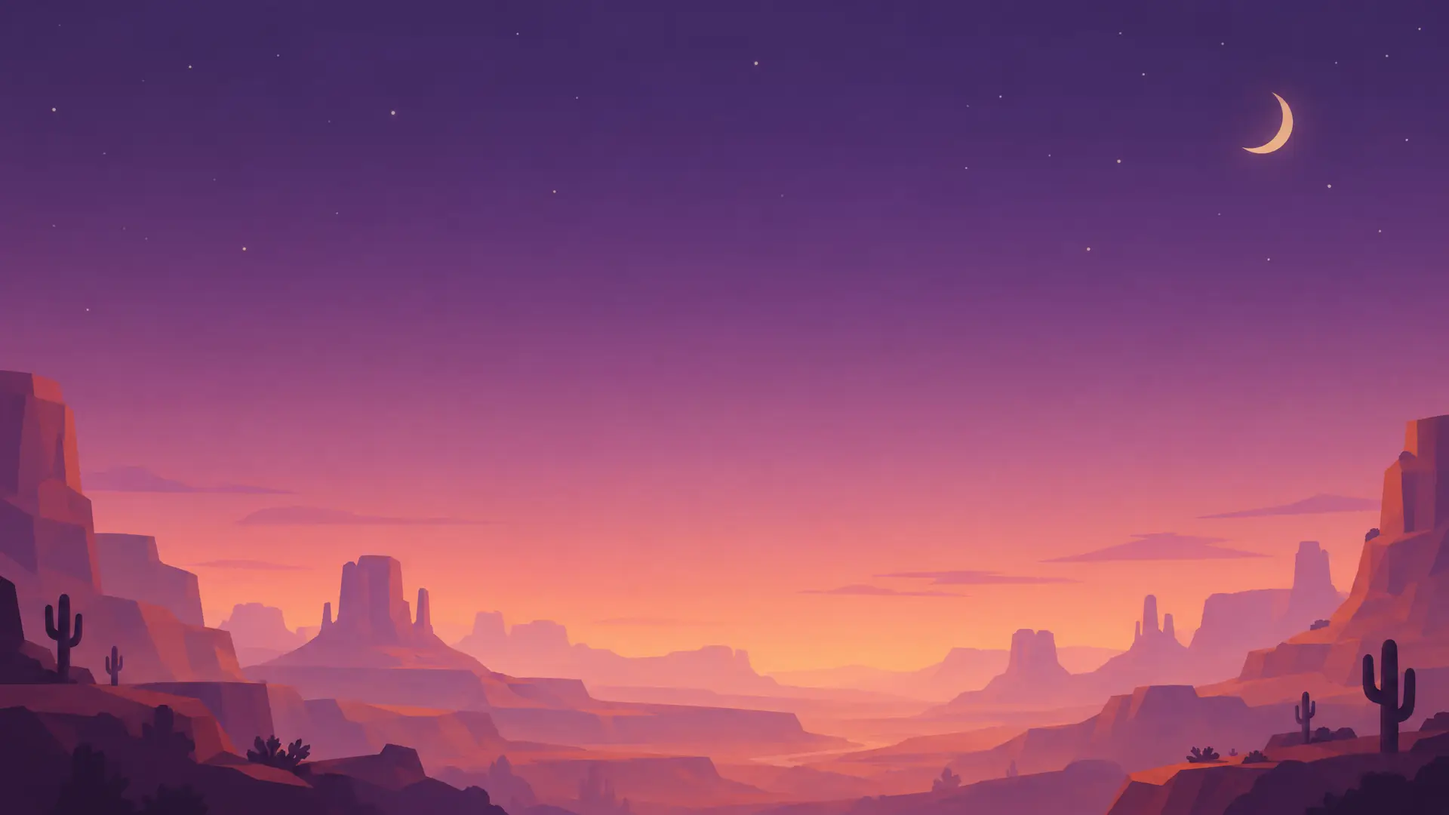
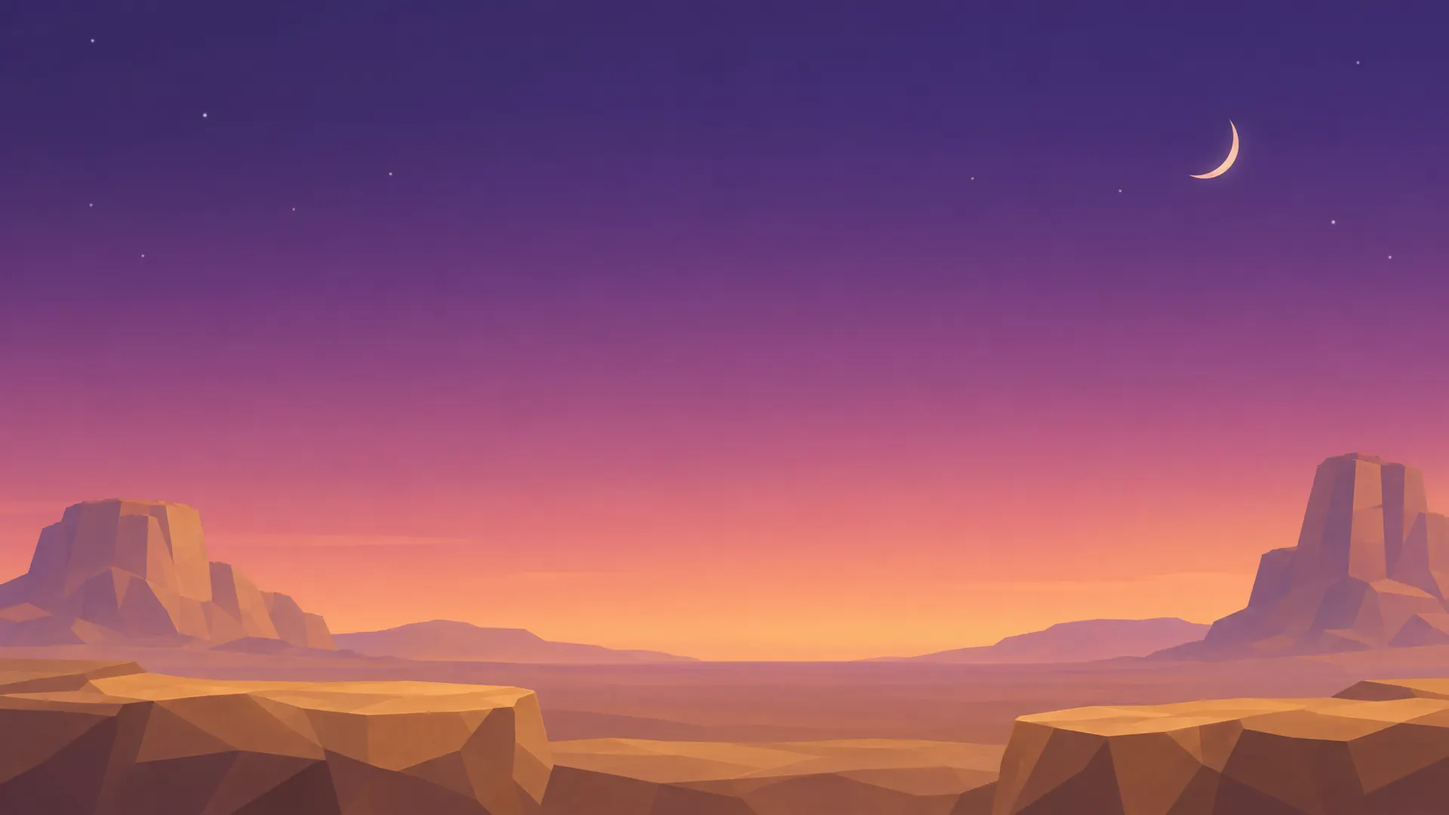
Calmer backdrops from the platforms' own sandstone world, twinkling stars, and guns held by the handle
Seven new Higgsfield backdrops (mesas, floating islands, arches, spires, ember ridges, sea cliffs, mirror lake)
with no buildings or machines, drawn slightly soft. Stars twinkle and fade as dawn comes. The fist closes on
each gun's handle and the free hand holds a long gun's front.

Changed region(s): [[0.0, 0.4583, 1.0, 1.0], [0.8438, 0.1222, 0.9062, 0.2139]]

diff --git a/index.html b/index.html
@@ -1929,28 +1929,35 @@ function facets(g,x,y,w,h,kind){const [base,hi,lo]=KIND[kind||0];g.save();g.fill
 function matchProgress(){if(game.bg||!game.target||game.target>=99)return 0;
   const lead=Math.max(game.wins[0]+game.points[0]/2,game.wins[1]+game.points[1]/2);return clamp(lead/(game.target-.5),0,1)}
 function mixHex(a,b,t){const pa=parseInt(a.slice(1),16),pb=parseInt(b.slice(1),16),m=sh=>Math.round(((pa>>sh)&255)+(((pb>>sh)&255)-((pa>>sh)&255))*t);return`rgb(${m(16)},${m(8)},${m(0)})`}
-/* painted backdrops (made with Higgsfield, one per arena theme): distant scenery only, so the platforms stay the brightest
+/* painted backdrops (made with Higgsfield, one per arena theme): the rest of the platforms' sandstone world, kept calm and distant, so the platforms stay the brightest
    thing on screen. Drawn cover-fit under a light veil; the match's night-to-dawn glow goes on top. Until one has loaded (or
    if it fails), the arena keeps its drawn dusk sky */
 const BACKDROP={Yard:'canyon',Pit:'canyon',Stairs:'canyon',Quarry:'canyon',Canyon:'canyon',Mesa:'canyon',Dunes:'canyon',Cutline:'canyon',
   Archipelago:'islands',Islands:'islands',Ferry:'islands',Springs:'islands',Bridge:'islands',Elevator:'islands',
   Ruins:'ruins',Crossroads:'ruins',Towers:'ruins',Spire:'ruins',Hourglass:'ruins',Plaza:'ruins',
-  Fortress:'fortress',Drawbridge:'fortress',Bunkers:'fortress',Divider:'fortress',Gallows:'fortress',
-  Foundry:'foundry',Gearworks:'foundry',Piston:'foundry',Chimney:'foundry',Pulley:'foundry','Wrecking Yard':'foundry',Scaffold:'foundry',
-  Skyline:'skyline',Catwalk:'skyline',Shelves:'skyline',Topple:'skyline',
-  Lanterns:'lanterns',Chimes:'lanterns',Chandelier:'lanterns',Swingset:'lanterns',Ropeyard:'lanterns'};
+  Fortress:'spires',Drawbridge:'spires',Bunkers:'spires',Divider:'spires',Gallows:'spires',
+  Foundry:'ember',Gearworks:'ember',Piston:'ember',Chimney:'ember',Pulley:'ember','Wrecking Yard':'ember',Scaffold:'ember',
+  Skyline:'coast',Catwalk:'coast',Shelves:'coast',Topple:'coast',
+  Lanterns:'lake',Chimes:'lake',Chandelier:'lake',Swingset:'lake',Ropeyard:'lake'};
 const bdImgs={};
 const backdropOf=map=>BACKDROP[map.label||map.name]||'canyon';
 function backdropImg(id){let im=bdImgs[id];if(im)return im;if(typeof Image==='undefined')return null;im=bdImgs[id]=new Image();im.decoding='async';
   im.onload=()=>{if(game.map&&backdropOf(game.map)===id)paintSky(game.map,matchProgress())};im.src='bg/'+id+'.webp';return im}
 function warmBackdrops(){for(const id of new Set(Object.values(BACKDROP)))backdropImg(id)}
 function drawBackdrop(g,map,dawn){const im=backdropImg(backdropOf(map));if(!im||!im.complete||!im.naturalWidth)return false;
-  const k=Math.max(W/im.naturalWidth,H/im.naturalHeight),dw=im.naturalWidth*k,dh=im.naturalHeight*k;g.drawImage(im,(W-dw)/2,H-dh,dw,dh);   // anchored to the bottom: the scenery sits on the horizon
+  const k=Math.max(W/im.naturalWidth,H/im.naturalHeight),dw=im.naturalWidth*k,dh=im.naturalHeight*k;g.save();g.filter='blur(2px) saturate(.85)';g.drawImage(im,(W-dw)/2,H-dh,dw,dh);g.restore();   // anchored to the bottom: the scenery sits on the horizon; a touch soft, so distant rock never reads as a platform
   g.fillStyle='rgba(16,8,30,.24)';g.fillRect(0,0,W,H);
   const vg=g.createLinearGradient(0,H*.55,0,H);vg.addColorStop(0,'rgba(16,8,30,0)');vg.addColorStop(1,'rgba(16,8,30,.38)');g.fillStyle=vg;g.fillRect(0,H*.55,W,H*.45);
   if(dawn>.05){const dg=g.createLinearGradient(0,0,0,H);dg.addColorStop(0,`rgba(90,120,200,${.22*dawn})`);dg.addColorStop(.6,`rgba(255,150,120,${.18*dawn})`);dg.addColorStop(1,`rgba(255,190,120,${.3*dawn})`);
     g.save();g.globalCompositeOperation='lighter';g.fillStyle=dg;g.fillRect(0,0,W,H);g.restore()}
   return true}
+/* the sky moves a little: stars twinkle, fading as dawn comes (the dust motes drift on their own layer). Drawn each frame behind the platforms,
+   from fixed per-arena positions, never simulated; off with reduced motion */
+let amb=null;
+function ambientFor(map){const R=artRng(strSeed('amb'+(map.label||map.name)));return{stars:Array.from({length:26},()=>({x:R()*W,y:R()*H*.45,r:.8+R()*1.4,ph:R()*TAU,sp:.6+R()*1.6}))}}
+function drawAmbient(){if(RM||!game.map)return;if(!amb||amb.map!==game.map){amb=ambientFor(game.map);amb.map=game.map}const t=performance.now()/1000,night=1-matchProgress()*.85;
+  ctx.save();ctx.fillStyle='#fff4ec';for(const s of amb.stars){const a=night*(.25+.45*(.5+.5*Math.sin(t*s.sp+s.ph)));if(a<.03)continue;ctx.globalAlpha=a;ctx.beginPath();ctx.arc(s.x,s.y,s.r,0,TAU);ctx.fill()}
+  ctx.restore()}
 function paintSky(map,dawn){const g=bgx;
   if(!drawBackdrop(g,map,dawn)){const gr=g.createLinearGradient(0,0,0,H);
   gr.addColorStop(0,mixHex('#1a1029','#34477f',dawn));gr.addColorStop(.55,mixHex('#35204a','#a8577a',dawn));gr.addColorStop(1,mixHex('#5b3352','#ffa765',dawn));g.fillStyle=gr;g.fillRect(0,0,W,H);
@@ -4358,8 +4365,9 @@ function gunAccent(p){const s=p.s;return s.poison?C.poison:s.slow>0?'#bfe9ff':s.
 /* painted guns (made with Higgsfield, in guns/): the build decides which one you hold, the same way it picks the shot sound,
    so a draft that changes your gun type shows it in your hand. gx/gy: where the hand holds it, as a share of the picture;
    w: its width in the arena. Until a picture loads (or if it fails) the drawn gun below stands in */
-const GUNS={sidearm:{n:'Sidearm',w:46,gx:.115,gy:.356},rail:{n:'Rail Rifle',w:80,gx:.22,gy:.49},scatter:{n:'Scattergun',w:62,gx:.133,gy:.37},
-  lob:{n:'Lobber',w:60,gx:.145,gy:.39},heavy:{n:'Hand Cannon',w:60,gx:.146,gy:.305},smg:{n:'SMG',w:52,gx:.12,gy:.283}};
+// hx/hy: the handle, where the fist closes (the gun hangs from it); gy: the barrel's line; sx/sy: where a two-handed gun's free hand holds it
+const GUNS={sidearm:{n:'Sidearm',w:46,hx:.128,hy:.62,gy:.356},rail:{n:'Rail Rifle',w:80,hx:.23,hy:.72,gy:.49,sx:.53,sy:.56},scatter:{n:'Scattergun',w:62,hx:.112,hy:.67,gy:.37,sx:.59,sy:.67},
+  lob:{n:'Lobber',w:60,hx:.123,hy:.65,gy:.39,sx:.5,sy:.74},heavy:{n:'Hand Cannon',w:60,hx:.126,hy:.59,gy:.305},smg:{n:'SMG',w:52,hx:.108,hy:.58,gy:.283}};
 const gunKind=s=>s.bulletSpeed>2000?'rail':s.projectiles>2?'scatter':s.bulletGravity>1.3||s.explode>=85?'lob':s.dmg>=80?'heavy':s.fireDelay<.18?'smg':'sidearm';
 const gunImgs={};
 function gunImg(k){let im=gunImgs[k];if(im)return im;if(typeof Image==='undefined')return null;im=gunImgs[k]=new Image();im.decoding='async';im.src='guns/'+k+'.webp';return im}
@@ -4367,11 +4375,13 @@ function warmGuns(){for(const k in GUNS)gunImg(k)}
 function drawGun(p){const k=gunKind(p.s),G=GUNS[k],im=gunImg(k);
   if(p._gk&&p._gk!==k&&p.alive)parts.push({text:G.n.toUpperCase()+'!',x:p.x,y:p.y-p.r-40,vx:0,vy:-50,grav:0,life:1.4,max:1.4,color:'#fff3c4'});   // your gun just changed type
   p._gk=k;
-  if(!im||!im.complete||!im.naturalWidth){drawBoxGun(p);return}
-  const w=G.w*(1+Math.min(.3,Math.max(0,(p.s.bulletSize-1)*.3))),h=w*im.naturalHeight/im.naturalWidth,len=(1-G.gx)*w,th=h*.5;ctx.drawImage(im,-G.gx*w,-G.gy*h,w,h);
-  const ac=gunAccent(p);if(ac!==p.glow){ctx.save();ctx.globalCompositeOperation='lighter';ctx.globalAlpha=.55;ctx.fillStyle=ac;ctx.beginPath();ctx.arc(len-2,0,th*.35,0,TAU);ctx.fill();ctx.restore()}   // poison, frost, blast or homing rounds tint the muzzle
-  muzzleFlash(p,len,th)}
-function muzzleFlash(p,len,th){if(p.shotT>0&&!RM){const k=clamp(p.shotT/.08,0,1),L=(16+th)*(.6+.6*k),S=th*.9*(.6+.4*k),sp=performance.now()/30;ctx.save();ctx.globalCompositeOperation='lighter';ctx.translate(len+2,0);   // muzzle flash
+  const g=gunGeom(p);if(!g){drawBoxGun(p);return}
+  const{w,h}=g,len=(1-G.hx)*w,by=(G.gy-G.hy)*h,th=h*.5;ctx.drawImage(im,-G.hx*w,-G.hy*h,w,h);
+  const ac=gunAccent(p);if(ac!==p.glow){ctx.save();ctx.globalCompositeOperation='lighter';ctx.globalAlpha=.55;ctx.fillStyle=ac;ctx.beginPath();ctx.arc(len-2,by,th*.35,0,TAU);ctx.fill();ctx.restore()}   // poison, frost, blast or homing rounds tint the muzzle
+  muzzleFlash(p,len,th,by)}
+// the painted gun's size for this build, or null while its picture loads
+function gunGeom(p){const k=gunKind(p.s),G=GUNS[k],im=gunImg(k);if(!im||!im.complete||!im.naturalWidth)return null;const w=G.w*(1+Math.min(.3,Math.max(0,(p.s.bulletSize-1)*.3)));return{G,w,h:w*im.naturalHeight/im.naturalWidth}}
+function muzzleFlash(p,len,th,by=0){if(p.shotT>0&&!RM){const k=clamp(p.shotT/.08,0,1),L=(16+th)*(.6+.6*k),S=th*.9*(.6+.4*k),sp=performance.now()/30;ctx.save();ctx.globalCompositeOperation='lighter';ctx.translate(len+2,by);   // muzzle flash
     for(const[col,m]of[[p.glow,1],['#fff4d6',.55]]){ctx.globalAlpha=.9*k;ctx.fillStyle=col;ctx.beginPath();
       for(let i=0;i<10;i++){const a=i*TAU/10+Math.sin(sp+i)*.08,r=(i%2?S*.45:i===0?L*1.25:L*.6)*m;ctx.lineTo(Math.cos(a)*r,Math.sin(a)*r*(i===0?1:.75))}ctx.closePath();ctx.fill()}   // five points, the forward one longest
     ctx.restore()}}
@@ -4449,15 +4459,17 @@ function drawPlayer(p){if(!p.alive)return;const R=p.r,ax=Math.cos(p.aim),ay=Math
   ctx.translate(0,bob);   // the body (and its arms) rides the step
   // off hand with the block orb (white = block ready)
   const ready=p.blockCd<=0,oh=p.blockT>0?[ax*(R+12),ay*(R+12)]:[-face*(R+12)-clamp((p.vx||0)*.014,-12,12)-dirW*Math.sin(wph)*R*.3*amt,R*.25+Math.cos(wph*2)*1.5*amt-clamp((p.vy||0)*.012,-12,12)];   // the free hand trails behind the motion and swings against the stride
-  noodle(-face*R*.6,R*.1,oh[0],oh[1],8,lw*.9,sk.lo);
-  ctx.globalAlpha=ready?1:.35;ctx.fillStyle='#ffffff';ctx.beginPath();ctx.arc(oh[0],oh[1],R*.3,0,TAU);ctx.fill();ctx.globalAlpha=1;
-  if(!ready){ctx.strokeStyle='#ffffff';ctx.lineWidth=2;ctx.beginPath();ctx.arc(oh[0],oh[1],R*.3+3,-Math.PI/2,-Math.PI/2+TAU*(1-p.blockCd/p.s.blockCd));ctx.stroke()}
+  const offHand=()=>{noodle(-face*R*.6,R*.1,oh[0],oh[1],8,lw*.9,sk.lo);
+    ctx.globalAlpha=ready?1:.35;ctx.fillStyle='#ffffff';ctx.beginPath();ctx.arc(oh[0],oh[1],R*.3,0,TAU);ctx.fill();ctx.globalAlpha=1;
+    if(!ready){ctx.strokeStyle='#ffffff';ctx.lineWidth=2;ctx.beginPath();ctx.arc(oh[0],oh[1],R*.3+3,-Math.PI/2,-Math.PI/2+TAU*(1-p.blockCd/p.s.blockCd));ctx.stroke()}};
   // gun arm
-  const recoil=p.shotT>0?-6:0,hx=ax*(R+14+recoil),hy=ay*(R+14+recoil);
+  const recoil=p.shotT>0?-6:0,hx=ax*(R+14+recoil),hy=ay*(R+14+recoil),gg=gunGeom(p),two=gg&&gg.G.sx!=null&&!(p.blockT>0);
+  if(!two)offHand();
   noodle(face*R*.5,R*.05,hx,hy,10,lw,p.color);
   ctx.save();ctx.translate(hx,hy);ctx.rotate(p.aim);if(face<0)ctx.scale(1,-1);drawGun(p);   // grip always hangs down
   if(p.staticReady){ctx.fillStyle=C.hot;ctx.fillRect(14,-5,6,10)}ctx.restore();
   ctx.fillStyle=p.color;ctx.beginPath();ctx.arc(hx,hy,lw*.62,0,TAU);ctx.fill();   // the fist wraps the grip
+  if(two){const{G,w,h}=gg,u=(G.sx-G.hx)*w,v=(G.sy-G.hy)*h*(face<0?-1:1),c=Math.cos(p.aim),sn=Math.sin(p.aim);oh[0]=hx+c*u-sn*v;oh[1]=hy+sn*u+c*v;offHand()}   // a long gun: the free hand (still the block orb) holds its front
   // body
   // body: squash and stretch from the jelly springs, a lean from the feet, and flattened against a wall it clings to
   const ja=p.ja||0,jw=p.jw||0,sy=p.squash*(1+ja),sx=(1/Math.sqrt(p.squash))*(1-ja*.7)*(1-.2*jw);
@@ -4605,7 +4617,7 @@ function renderNow(){ctx.setTransform(1,0,0,1,0,0);ctx.fillStyle='#0c0713';ctx.f
   if(W>VW||H>VH){const E=4000;const q=LQ;ctx.drawImage(bgC,0,0,W*q,2*q,-E,-E,W+2*E,E);ctx.drawImage(bgC,0,(H-2)*q,W*q,2*q,-E,H,W+2*E,E);ctx.drawImage(bgC,0,0,2*q,H*q,-E,0,E,H);ctx.drawImage(bgC,(W-2)*q,0,2*q,H*q,W,0,E,H);
     ctx.fillStyle='rgba(8,4,14,.4)';ctx.fillRect(-E,-E,W+2*E,E);ctx.fillRect(-E,H,W+2*E,E);ctx.fillRect(-E,0,E,H);ctx.fillRect(W,0,E,H)}
   ctx.save();ctx.beginPath();ctx.rect(0,0,W,H);ctx.clip();
-  ctx.drawImage(bgC,0,0,W,H);
+  ctx.drawImage(bgC,0,0,W,H);drawAmbient();
   for(const m of motes){ctx.globalAlpha=m.a;ctx.fillStyle='#ffd9c4';ctx.fillRect(m.x,m.y,m.s,m.s)}ctx.globalAlpha=1;
   ctx.save();ctx.translate(0,game.dropOff);ctx.drawImage(platC,0,0,W,H);ctx.drawImage(decC,0,0,W,H);
   for(const s of swings){if(!s.mover){if(s.ay>0){chain(s.ax,0,s.ax,s.ay);ctx.fillStyle='#8f88a6';ctx.beginPath();ctx.arc(s.ax,s.ay,6,0,TAU);ctx.fill()}chain(s.ax,s.ay||0,s.x+s.w/2,s.y)}
@@ -4835,7 +4847,7 @@ function frame(now){const dt=Math.min(.25,(now-last)/1000);last=now;if(ctl.on){p
 
 /* ---------- online: peer-to-peer via PeerJS. The host's browser runs the match for both players;
    the guest sends its inputs and draws the host's snapshots. A free public broker only introduces the two browsers. ---------- */
-const BUILD='2026-11-10-painted-guns';   // both players must run the same build: arena lists and rules have to match
+const BUILD='2026-11-10-calm-world';   // both players must run the same build: arena lists and rules have to match
 const ROOM_ALPHA='ABCDEFGHJKLMNPQRSTUVWXYZ23456789',ROOM_PREFIX='cuued-v1-';
 const net={role:null,peer:null,conn:null,connected:false,code:'',remoteName:'',remote:null,snap:null,snapAt:0,bmap:new Map(),
   out:{jc:0,bc:0,sc:0},sendT:0,pingT:0,rtt:0,fx:[],joinTimer:0,seq:0,ice:null,relay:false,iceAt:0,iceTried:false,icePromise:null,

diff --git a/src/counterpick.html b/src/counterpick.html
@@ -1922,28 +1922,35 @@ function facets(g,x,y,w,h,kind){const [base,hi,lo]=KIND[kind||0];g.save();g.fill
 function matchProgress(){if(game.bg||!game.target||game.target>=99)return 0;
   const lead=Math.max(game.wins[0]+game.points[0]/2,game.wins[1]+game.points[1]/2);return clamp(lead/(game.target-.5),0,1)}
 function mixHex(a,b,t){const pa=parseInt(a.slice(1),16),pb=parseInt(b.slice(1),16),m=sh=>Math.round(((pa>>sh)&255)+(((pb>>sh)&255)-((pa>>sh)&255))*t);return`rgb(${m(16)},${m(8)},${m(0)})`}
-/* painted backdrops (made with Higgsfield, one per arena theme): distant scenery only, so the platforms stay the brightest
+/* painted backdrops (made with Higgsfield, one per arena theme): the rest of the platforms' sandstone world, kept calm and distant, so the platforms stay the brightest
    thing on screen. Drawn cover-fit under a light veil; the match's night-to-dawn glow goes on top. Until one has loaded (or
    if it fails), the arena keeps its drawn dusk sky */
 const BACKDROP={Yard:'canyon',Pit:'canyon',Stairs:'canyon',Quarry:'canyon',Canyon:'canyon',Mesa:'canyon',Dunes:'canyon',Cutline:'canyon',
   Archipelago:'islands',Islands:'islands',Ferry:'islands',Springs:'islands',Bridge:'islands',Elevator:'islands',
   Ruins:'ruins',Crossroads:'ruins',Towers:'ruins',Spire:'ruins',Hourglass:'ruins',Plaza:'ruins',
-  Fortress:'fortress',Drawbridge:'fortress',Bunkers:'fortress',Divider:'fortress',Gallows:'fortress',
-  Foundry:'foundry',Gearworks:'foundry',Piston:'foundry',Chimney:'foundry',Pulley:'foundry','Wrecking Yard':'foundry',Scaffold:'foundry',
-  Skyline:'skyline',Catwalk:'skyline',Shelves:'skyline',Topple:'skyline',
-  Lanterns:'lanterns',Chimes:'lanterns',Chandelier:'lanterns',Swingset:'lanterns',Ropeyard:'lanterns'};
+  Fortress:'spires',Drawbridge:'spires',Bunkers:'spires',Divider:'spires',Gallows:'spires',
+  Foundry:'ember',Gearworks:'ember',Piston:'ember',Chimney:'ember',Pulley:'ember','Wrecking Yard':'ember',Scaffold:'ember',
+  Skyline:'coast',Catwalk:'coast',Shelves:'coast',Topple:'coast',
+  Lanterns:'lake',Chimes:'lake',Chandelier:'lake',Swingset:'lake',Ropeyard:'lake'};
 const bdImgs={};
 const backdropOf=map=>BACKDROP[map.label||map.name]||'canyon';
 function backdropImg(id){let im=bdImgs[id];if(im)return im;if(typeof Image==='undefined')return null;im=bdImgs[id]=new Image();im.decoding='async';
   im.onload=()=>{if(game.map&&backdropOf(game.map)===id)paintSky(game.map,matchProgress())};im.src='bg/'+id+'.webp';return im}
 function warmBackdrops(){for(const id of new Set(Object.values(BACKDROP)))backdropImg(id)}
 function drawBackdrop(g,map,dawn){const im=backdropImg(backdropOf(map));if(!im||!im.complete||!im.naturalWidth)return false;
-  const k=Math.max(W/im.naturalWidth,H/im.naturalHeight),dw=im.naturalWidth*k,dh=im.naturalHeight*k;g.drawImage(im,(W-dw)/2,H-dh,dw,dh);   // anchored to the bottom: the scenery sits on the horizon
+  const k=Math.max(W/im.naturalWidth,H/im.naturalHeight),dw=im.naturalWidth*k,dh=im.naturalHeight*k;g.save();g.filter='blur(2px) saturate(.85)';g.drawImage(im,(W-dw)/2,H-dh,dw,dh);g.restore();   // anchored to the bottom: the scenery sits on the horizon; a touch soft, so distant rock never reads as a platform
   g.fillStyle='rgba(16,8,30,.24)';g.fillRect(0,0,W,H);
   const vg=g.createLinearGradient(0,H*.55,0,H);vg.addColorStop(0,'rgba(16,8,30,0)');vg.addColorStop(1,'rgba(16,8,30,.38)');g.fillStyle=vg;g.fillRect(0,H*.55,W,H*.45);
   if(dawn>.05){const dg=g.createLinearGradient(0,0,0,H);dg.addColorStop(0,`rgba(90,120,200,${.22*dawn})`);dg.addColorStop(.6,`rgba(255,150,120,${.18*dawn})`);dg.addColorStop(1,`rgba(255,190,120,${.3*dawn})`);
     g.save();g.globalCompositeOperation='lighter';g.fillStyle=dg;g.fillRect(0,0,W,H);g.restore()}
   return true}
+/* the sky moves a little: stars twinkle, fading as dawn comes (the dust motes drift on their own layer). Drawn each frame behind the platforms,
+   from fixed per-arena positions, never simulated; off with reduced motion */
+let amb=null;
+function ambientFor(map){const R=artRng(strSeed('amb'+(map.label||map.name)));return{stars:Array.from({length:26},()=>({x:R()*W,y:R()*H*.45,r:.8+R()*1.4,ph:R()*TAU,sp:.6+R()*1.6}))}}
+function drawAmbient(){if(RM||!game.map)return;if(!amb||amb.map!==game.map){amb=ambientFor(game.map);amb.map=game.map}const t=performance.now()/1000,night=1-matchProgress()*.85;
+  ctx.save();ctx.fillStyle='#fff4ec';for(const s of amb.stars){const a=night*(.25+.45*(.5+.5*Math.sin(t*s.sp+s.ph)));if(a<.03)continue;ctx.globalAlpha=a;ctx.beginPath();ctx.arc(s.x,s.y,s.r,0,TAU);ctx.fill()}
+  ctx.restore()}
 function paintSky(map,dawn){const g=bgx;
   if(!drawBackdrop(g,map,dawn)){const gr=g.createLinearGradient(0,0,0,H);
   gr.addColorStop(0,mixHex('#1a1029','#34477f',dawn));gr.addColorStop(.55,mixHex('#35204a','#a8577a',dawn));gr.addColorStop(1,mixHex('#5b3352','#ffa765',dawn));g.fillStyle=gr;g.fillRect(0,0,W,H);
@@ -4351,8 +4358,9 @@ function gunAccent(p){const s=p.s;return s.poison?C.poison:s.slow>0?'#bfe9ff':s.
 /* painted guns (made with Higgsfield, in guns/): the build decides which one you hold, the same way it picks the shot sound,
    so a draft that changes your gun type shows it in your hand. gx/gy: where the hand holds it, as a share of the picture;
    w: its width in the arena. Until a picture loads (or if it fails) the drawn gun below stands in */
-const GUNS={sidearm:{n:'Sidearm',w:46,gx:.115,gy:.356},rail:{n:'Rail Rifle',w:80,gx:.22,gy:.49},scatter:{n:'Scattergun',w:62,gx:.133,gy:.37},
-  lob:{n:'Lobber',w:60,gx:.145,gy:.39},heavy:{n:'Hand Cannon',w:60,gx:.146,gy:.305},smg:{n:'SMG',w:52,gx:.12,gy:.283}};
+// hx/hy: the handle, where the fist closes (the gun hangs from it); gy: the barrel's line; sx/sy: where a two-handed gun's free hand holds it
+const GUNS={sidearm:{n:'Sidearm',w:46,hx:.128,hy:.62,gy:.356},rail:{n:'Rail Rifle',w:80,hx:.23,hy:.72,gy:.49,sx:.53,sy:.56},scatter:{n:'Scattergun',w:62,hx:.112,hy:.67,gy:.37,sx:.59,sy:.67},
+  lob:{n:'Lobber',w:60,hx:.123,hy:.65,gy:.39,sx:.5,sy:.74},heavy:{n:'Hand Cannon',w:60,hx:.126,hy:.59,gy:.305},smg:{n:'SMG',w:52,hx:.108,hy:.58,gy:.283}};
 const gunKind=s=>s.bulletSpeed>2000?'rail':s.projectiles>2?'scatter':s.bulletGravity>1.3||s.explode>=85?'lob':s.dmg>=80?'heavy':s.fireDelay<.18?'smg':'sidearm';
 const gunImgs={};
 function gunImg(k){let im=gunImgs[k];if(im)return im;if(typeof Image==='undefined')return null;im=gunImgs[k]=new Image();im.decoding='async';im.src='guns/'+k+'.webp';return im}
@@ -4360,11 +4368,13 @@ function warmGuns(){for(const k in GUNS)gunImg(k)}
 function drawGun(p){const k=gunKind(p.s),G=GUNS[k],im=gunImg(k);
   if(p._gk&&p._gk!==k&&p.alive)parts.push({text:G.n.toUpperCase()+'!',x:p.x,y:p.y-p.r-40,vx:0,vy:-50,grav:0,life:1.4,max:1.4,color:'#fff3c4'});   // your gun just changed type
   p._gk=k;
-  if(!im||!im.complete||!im.naturalWidth){drawBoxGun(p);return}
-  const w=G.w*(1+Math.min(.3,Math.max(0,(p.s.bulletSize-1)*.3))),h=w*im.naturalHeight/im.naturalWidth,len=(1-G.gx)*w,th=h*.5;ctx.drawImage(im,-G.gx*w,-G.gy*h,w,h);
-  const ac=gunAccent(p);if(ac!==p.glow){ctx.save();ctx.globalCompositeOperation='lighter';ctx.globalAlpha=.55;ctx.fillStyle=ac;ctx.beginPath();ctx.arc(len-2,0,th*.35,0,TAU);ctx.fill();ctx.restore()}   // poison, frost, blast or homing rounds tint the muzzle
-  muzzleFlash(p,len,th)}
-function muzzleFlash(p,len,th){if(p.shotT>0&&!RM){const k=clamp(p.shotT/.08,0,1),L=(16+th)*(.6+.6*k),S=th*.9*(.6+.4*k),sp=performance.now()/30;ctx.save();ctx.globalCompositeOperation='lighter';ctx.translate(len+2,0);   // muzzle flash
+  const g=gunGeom(p);if(!g){drawBoxGun(p);return}
+  const{w,h}=g,len=(1-G.hx)*w,by=(G.gy-G.hy)*h,th=h*.5;ctx.drawImage(im,-G.hx*w,-G.hy*h,w,h);
+  const ac=gunAccent(p);if(ac!==p.glow){ctx.save();ctx.globalCompositeOperation='lighter';ctx.globalAlpha=.55;ctx.fillStyle=ac;ctx.beginPath();ctx.arc(len-2,by,th*.35,0,TAU);ctx.fill();ctx.restore()}   // poison, frost, blast or homing rounds tint the muzzle
+  muzzleFlash(p,len,th,by)}
+// the painted gun's size for this build, or null while its picture loads
+function gunGeom(p){const k=gunKind(p.s),G=GUNS[k],im=gunImg(k);if(!im||!im.complete||!im.naturalWidth)return null;const w=G.w*(1+Math.min(.3,Math.max(0,(p.s.bulletSize-1)*.3)));return{G,w,h:w*im.naturalHeight/im.naturalWidth}}
+function muzzleFlash(p,len,th,by=0){if(p.shotT>0&&!RM){const k=clamp(p.shotT/.08,0,1),L=(16+th)*(.6+.6*k),S=th*.9*(.6+.4*k),sp=performance.now()/30;ctx.save();ctx.globalCompositeOperation='lighter';ctx.translate(len+2,by);   // muzzle flash
     for(const[col,m]of[[p.glow,1],['#fff4d6',.55]]){ctx.globalAlpha=.9*k;ctx.fillStyle=col;ctx.beginPath();
       for(let i=0;i<10;i++){const a=i*TAU/10+Math.sin(sp+i)*.08,r=(i%2?S*.45:i===0?L*1.25:L*.6)*m;ctx.lineTo(Math.cos(a)*r,Math.sin(a)*r*(i===0?1:.75))}ctx.closePath();ctx.fill()}   // five points, the forward one longest
     ctx.restore()}}
@@ -4442,15 +4452,17 @@ function drawPlayer(p){if(!p.alive)return;const R=p.r,ax=Math.cos(p.aim),ay=Math
   ctx.translate(0,bob);   // the body (and its arms) rides the step
   // off hand with the block orb (white = block ready)
   const ready=p.blockCd<=0,oh=p.blockT>0?[ax*(R+12),ay*(R+12)]:[-face*(R+12)-clamp((p.vx||0)*.014,-12,12)-dirW*Math.sin(wph)*R*.3*amt,R*.25+Math.cos(wph*2)*1.5*amt-clamp((p.vy||0)*.012,-12,12)];   // the free hand trails behind the motion and swings against the stride
-  noodle(-face*R*.6,R*.1,oh[0],oh[1],8,lw*.9,sk.lo);
-  ctx.globalAlpha=ready?1:.35;ctx.fillStyle='#ffffff';ctx.beginPath();ctx.arc(oh[0],oh[1],R*.3,0,TAU);ctx.fill();ctx.globalAlpha=1;
-  if(!ready){ctx.strokeStyle='#ffffff';ctx.lineWidth=2;ctx.beginPath();ctx.arc(oh[0],oh[1],R*.3+3,-Math.PI/2,-Math.PI/2+TAU*(1-p.blockCd/p.s.blockCd));ctx.stroke()}
+  const offHand=()=>{noodle(-face*R*.6,R*.1,oh[0],oh[1],8,lw*.9,sk.lo);
+    ctx.globalAlpha=ready?1:.35;ctx.fillStyle='#ffffff';ctx.beginPath();ctx.arc(oh[0],oh[1],R*.3,0,TAU);ctx.fill();ctx.globalAlpha=1;
+    if(!ready){ctx.strokeStyle='#ffffff';ctx.lineWidth=2;ctx.beginPath();ctx.arc(oh[0],oh[1],R*.3+3,-Math.PI/2,-Math.PI/2+TAU*(1-p.blockCd/p.s.blockCd));ctx.stroke()}};
   // gun arm
-  const recoil=p.shotT>0?-6:0,hx=ax*(R+14+recoil),hy=ay*(R+14+recoil);
+  const recoil=p.shotT>0?-6:0,hx=ax*(R+14+recoil),hy=ay*(R+14+recoil),gg=gunGeom(p),two=gg&&gg.G.sx!=null&&!(p.blockT>0);
+  if(!two)offHand();
   noodle(face*R*.5,R*.05,hx,hy,10,lw,p.color);
   ctx.save();ctx.translate(hx,hy);ctx.rotate(p.aim);if(face<0)ctx.scale(1,-1);drawGun(p);   // grip always hangs down
   if(p.staticReady){ctx.fillStyle=C.hot;ctx.fillRect(14,-5,6,10)}ctx.restore();
   ctx.fillStyle=p.color;ctx.beginPath();ctx.arc(hx,hy,lw*.62,0,TAU);ctx.fill();   // the fist wraps the grip
+  if(two){const{G,w,h}=gg,u=(G.sx-G.hx)*w,v=(G.sy-G.hy)*h*(face<0?-1:1),c=Math.cos(p.aim),sn=Math.sin(p.aim);oh[0]=hx+c*u-sn*v;oh[1]=hy+sn*u+c*v;offHand()}   // a long gun: the free hand (still the block orb) holds its front
   // body
   // body: squash and stretch from the jelly springs, a lean from the feet, and flattened against a wall it clings to
   const ja=p.ja||0,jw=p.jw||0,sy=p.squash*(1+ja),sx=(1/Math.sqrt(p.squash))*(1-ja*.7)*(1-.2*jw);
@@ -4598,7 +4610,7 @@ function renderNow(){ctx.setTransform(1,0,0,1,0,0);ctx.fillStyle='#0c0713';ctx.f
   if(W>VW||H>VH){const E=4000;const q=LQ;ctx.drawImage(bgC,0,0,W*q,2*q,-E,-E,W+2*E,E);ctx.drawImage(bgC,0,(H-2)*q,W*q,2*q,-E,H,W+2*E,E);ctx.drawImage(bgC,0,0,2*q,H*q,-E,0,E,H);ctx.drawImage(bgC,(W-2)*q,0,2*q,H*q,W,0,E,H);
     ctx.fillStyle='rgba(8,4,14,.4)';ctx.fillRect(-E,-E,W+2*E,E);ctx.fillRect(-E,H,W+2*E,E);ctx.fillRect(-E,0,E,H);ctx.fillRect(W,0,E,H)}
   ctx.save();ctx.beginPath();ctx.rect(0,0,W,H);ctx.clip();
-  ctx.drawImage(bgC,0,0,W,H);
+  ctx.drawImage(bgC,0,0,W,H);drawAmbient();
   for(const m of motes){ctx.globalAlpha=m.a;ctx.fillStyle='#ffd9c4';ctx.fillRect(m.x,m.y,m.s,m.s)}ctx.globalAlpha=1;
   ctx.save();ctx.translate(0,game.dropOff);ctx.drawImage(platC,0,0,W,H);ctx.drawImage(decC,0,0,W,H);
   for(const s of swings){if(!s.mover){if(s.ay>0){chain(s.ax,0,s.ax,s.ay);ctx.fillStyle='#8f88a6';ctx.beginPath();ctx.arc(s.ax,s.ay,6,0,TAU);ctx.fill()}chain(s.ax,s.ay||0,s.x+s.w/2,s.y)}
@@ -4828,7 +4840,7 @@ function frame(now){const dt=Math.min(.25,(now-last)/1000);last=now;if(ctl.on){p
 
 /* ---------- online: peer-to-peer via PeerJS. The host's browser runs the match for both players;
    the guest sends its inputs and draws the host's snapshots. A free public broker only introduces the two browsers. ---------- */
-const BUILD='2026-11-10-painted-guns';   // both players must run the same build: arena lists and rules have to match
+const BUILD='2026-11-10-calm-world';   // both players must run the same build: arena lists and rules have to match
 const ROOM_ALPHA='ABCDEFGHJKLMNPQRSTUVWXYZ23456789',ROOM_PREFIX='cuued-v1-';
 const net={role:null,peer:null,conn:null,connected:false,code:'',remoteName:'',remote:null,snap:null,snapAt:0,bmap:new Map(),
   out:{jc:0,bc:0,sc:0},sendT:0,pingT:0,rtt:0,fx:[],joinTimer:0,seq:0,ice:null,relay:false,iceAt:0,iceTried:false,icePromise:null,

diff --git a/README.md b/README.md
@@ -78,7 +78,8 @@ If a point drags past 45 seconds, overtime starts. Bullets begin to seek their t
 - **Walking:** on the ground each foot plants and pushes back, then lifts and swings forward with a bent knee; the body bobs once a step and the free arm swings against the stride. Same physics; worked out on every screen from what it draws, so an online opponent walks too.
 - **End screen:** your fighter up close: on a win it hops with its arms up, beaming, under confetti (ribbon: Victory, or New best in Survival); on a loss it slumps, eyes down, with a sad brow and a tear (So close if you lost by a round, else Defeated). Your build is dealt out as cards (icon, kind, rarity, ×2 for copies), stat pills (rounds, cards, streak; Survival: rounds, level, best), coins, the rival's deck, and one warm button: Play again (Rematch online, New run in Survival). A Big Screen shows the winner celebrating.
 - **Painted guns:** every fighter holds a painted gun (Higgsfield art in `guns/`), and the build decides which: **Sidearm** to start, **Rail Rifle** (very fast shots), **Scattergun** (3+ pellets), **Lobber** (heavy arcing or big-blast shells), **Hand Cannon** (big damage) or **SMG** (fast fire), the same split as the shot sounds (`gunKind`). When a card changes your gun type, its name pops over your fighter. Poison, frost, blast and homing rounds tint the muzzle. The old drawn gun (`drawBoxGun`) stands in until a picture loads.
-- **Painted backdrops:** every arena has a painted sky behind it (made with Higgsfield, in `bg/`: canyon, sky islands, ruins, fortress, foundry, city skyline and lanterns, chosen by arena in `BACKDROP`). Scenery stays low and at the sides so platforms read first; it is drawn cover-fit under a light veil, the match's night-to-dawn glow goes on top, and the drawn dusk sky is the fallback until the picture loads. About 35 KB each, preloaded after boot.
+- **Painted backdrops:** every arena has a painted sky behind it (made with Higgsfield, in `bg/`), showing the rest of the platforms' own low-poly sandstone world, kept calm: a few big landforms and lots of sky, no buildings or machines. Seven moods by arena (`BACKDROP`): mesas (canyon), floating islands over clouds, sandstone arches in dunes (ruins), spires in mist, ember ridges under a glowing volcano, sea cliffs (coast) and a mirror lake. Drawn cover-fit, slightly soft so distant rock never reads as a platform, under a light veil; the match's night-to-dawn glow goes on top, stars twinkle and fade as dawn comes (`drawAmbient`, off with reduced motion), and the drawn dusk sky is the fallback until the picture loads.
+- **Guns are held:** the fist closes on each painted gun's handle, and the free hand (still the block orb) holds the front of a long gun (Rail Rifle, Scattergun, Lobber) unless you're blocking.
 - **Arena pieces:** platforms are drawn as chipped low-poly rock slabs (shadows are drawn first, so none falls across another platform), bounce pads are spring plates, hanging blocks hang on chains. **Crates** (Divider, Bunkers, Quarry, and the Canyon, Fortress and Dunes Survival arenas) are cover you can move and break: walk into one to push it (at a slower walk) to put a wall where you need it, shove a rival along with it, or push it off a ledge onto whoever is below (22 damage); three hits crack it apart and leave a small health orb (12% of max health, at least 15) for whoever grabs it first (in Survival, a hero; the CPU goes for it when hurt). **The colour rule:** bright rock never moves; **dark iron-and-timber** pieces are physical, and a **hollow iron support** (a frame with a glowing core) is what you shoot. **Rope drops** (Gallows, Cutline, Ropeyard) hang a platform under one: shoot it and the platform falls (30 damage to whoever it lands on) and stays as cover. **Rigs** (Chandelier, Drawbridge, Wrecking Yard, Pulley, Topple, and Foundry for four): a beam on two ropes swings from the one that's left, then falls; raised drawbridges slam down when their rope is shot (and drop away when the hinge is); an iron ball swings across the floor, pushed by shots and blasts, knocking over whoever it meets; two lifts share one rope, so the side with more fighters sinks; a keystone (two hits) brings the blocks above it down, toppling. Collision stays level (exact and in step online) while the drawn piece leans a little as it moves and settles flat at rest; blasts crack supports too; the CPU shoots them over you and lowers a raised bridge to cross. The host decides every break; guests run the same physics and are eased to the host's. Piston's middle walls are 30 px lower, and the CPU climbs a tall wall with its double jump at the top of the first, so it never gets stuck in the middle room. The rig arenas have wide versions for co-op Survival (bridges grow with the gap, so they still meet). Pulley's side ledges sit a double jump off the floor, so they stay reachable after the lifts fall. Everything resets each point and after a lost Survival life. New arenas: **Quarry** and **Cutline**. In the Survival shop a card is offered at most 3 times (Second Wind and Aegis once).
 - **CUUED coins & Shop:** win a full match to earn coins (2 for an online win or a Hard CPU, 1 for a Normal or Easy CPU; streaks tracked) and spend them in the Shop on hats, body patterns and bullet-trail colours. Cosmetic only, so nobody can buy an edge; your opponent sees what you wear online. Coins are kept in your browser.
 - **Survival** (solo): an endless run, like CoD Zombies crossed with Brotato. **Choose a character** first: Duelist (+35% damage, -25% health), Tank (+50% health) and Gunslinger (+45% fire rate) from the start; Sprite (fast, an extra air jump) unlocks at round 10 and Juggernaut (every block is a charge) at round 20. Then take **one free pick** from a hand of three cards and two power-ups, and fight **waves**: one enemy at first, up to four by round 12, each gaining about one card every two rounds (rare cards from round 10) and a little more health. **Twist rounds** (from round 6) change the rules for a round: low gravity, fast bullets, frenzy fire or glass (everyone takes double damage). **Only the start is free**: after the first pick every card and power-up is bought with scrap in the shop (power-ups: one slot, two from round 8). Damage and kills earn **XP**; each level adds +5% health and +4% damage on the spot (up to level 15). **Power-up capsules drop only here**: Health (+40%), Overcharge (double damage, 8 s), Rapid fire (6 s), Bubble (blocks the next hit) or Wild card (a random card until the round ends). Clearing a round pays scrap for the shop: 5 + 0.6 per round, +1.5 per kill, +4 for no damage taken, +12 for a boss (+5 for an elite), +3 teamwork in co-op when both heroes finish alive (all x the character's bonus, and x0.85 each in co-op), plus **interest**: 1 per 12 scrap you saved, up to 4, so holding scrap for a big buy pays; the HUD shows each card once with a x2, x3 tag for copies, which is the draft's own animated card fan with a price under each of five cards: buy any (click or 1-5), lock one to keep it for the next shop, reroll (R, costs more each time), or sell a card from your build for half price. **Big arenas**: from round 4 most rounds (and every round from 8) fight on Canyon, Fortress, Skyline, Dunes, Ruins or Mesa, arenas bigger than the screen, built at the screen's own 16:9 (2240 x 1260) and shown **whole**, like a ROUNDS map: nothing cut off, no bars, no panning (phones zoom out to 0.8 and follow you gently). Co-op plays every standard arena at 1920 x 1080. The reshape spreads platforms sideways (pillars and springs keep their width and stay flush with the edges they touch) and adds sky on top, so no jump gets taller. An arrow on the screen's edge points to anyone out of view. Duel and CPU matches keep the classic one-screen arenas. 3 lives for the whole run; your best round is saved per character and the run pays CUUED coins. `survival.js` plays whole runs with a CPU stand-in; `drops.js` checks each capsule.
